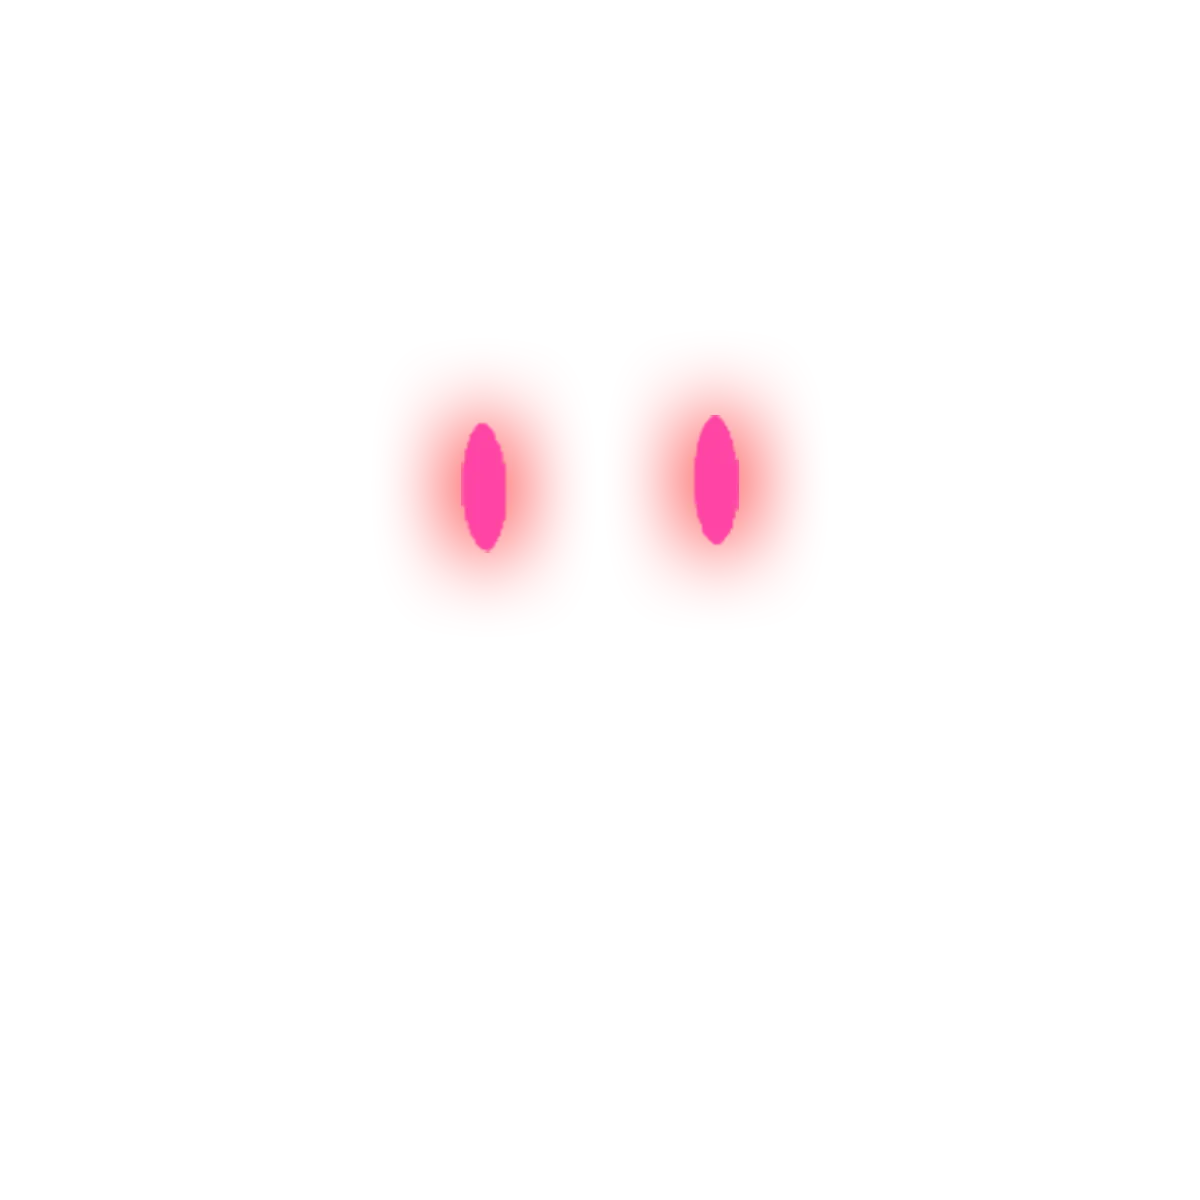
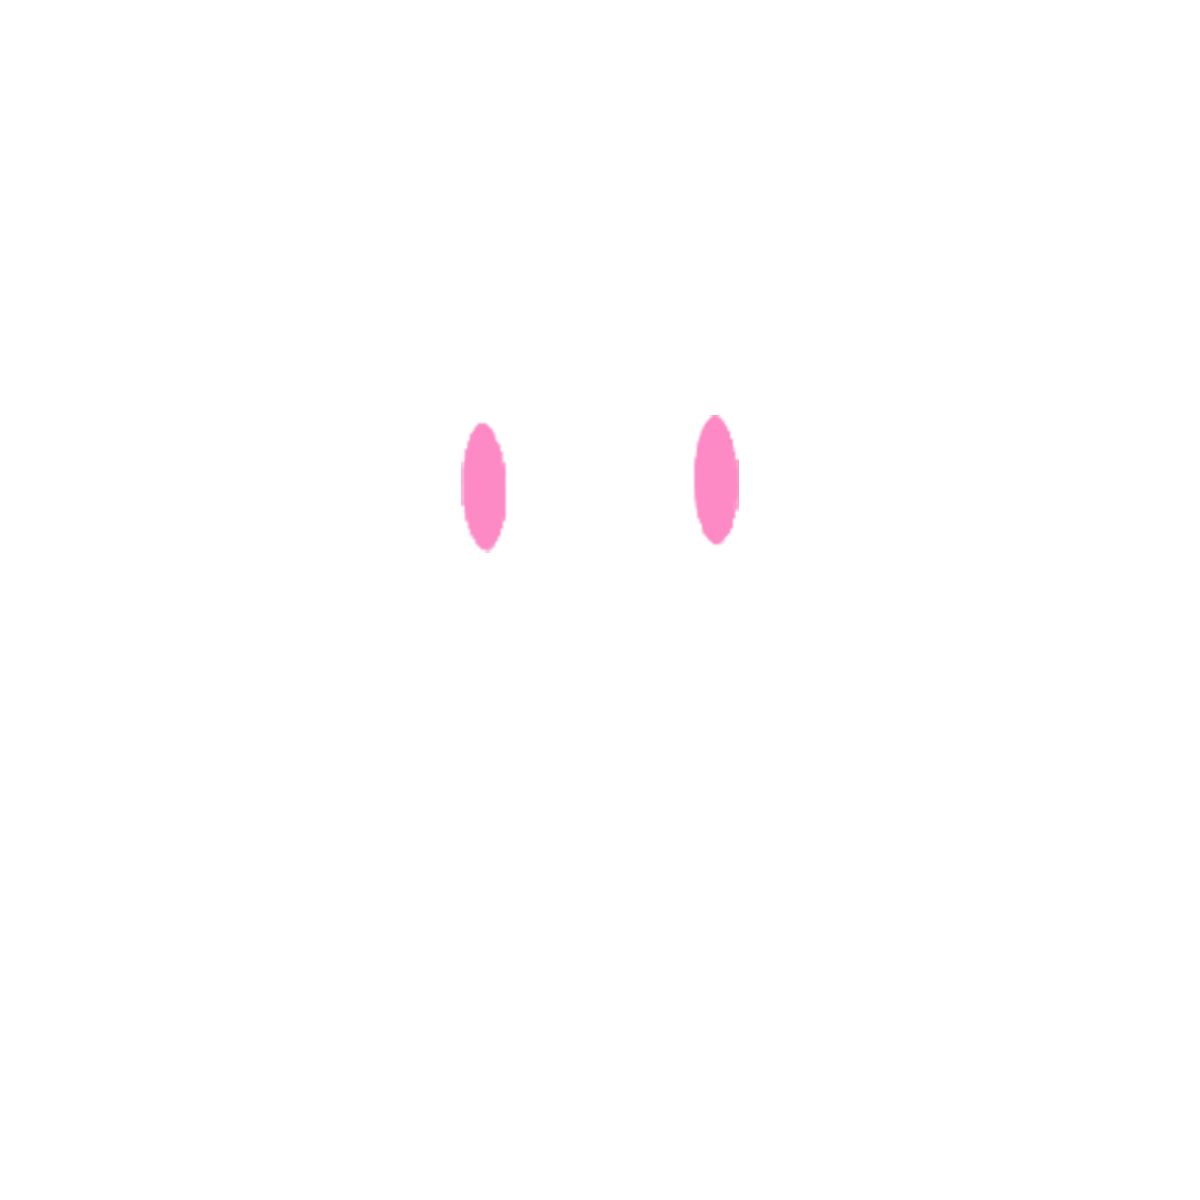
Improve eye animation

Changed region(s): [[0.5242, 0.3083, 0.6783, 0.4933], [0.3392, 0.3083, 0.4625, 0.4933]]

diff --git a/client/Haro.css b/client/Haro.css
@@ -4,7 +4,6 @@
   flex-grow: 1;
   text-align: center;
 }
-
 .haroBody {
   width: 100%;
   height: 60vh;
@@ -13,7 +12,6 @@
   background-repeat: no-repeat;
   background-position: center;
 }
-
 .haroEye {
   width: 100%;
   height: 100%;
@@ -24,20 +22,36 @@
   opacity: 0;
   transition: opacity 0.3s ease-in-out;
 }
-
+.haroEye::before {
+  content: "";
+  display: block;
+  width: 100%;
+  height: 100%;
+  background-image: url("/haro_eye_glow.webp");
+  background-size: contain;
+  background-repeat: no-repeat;
+  background-position: center;
+  opacity: 0;
+  transition: opacity 0.3s ease-in-out;
+  animation: activeBlink 2s infinite;
+}
 .haroEye.active {
   opacity: 1;
 }
-
-.haroEye.speaking {
-  animation: blink 2s infinite;
+.haroEye.active::before {
+  opacity: 1;
 }
-
+.haroEye.speaking {
+  opacity: 1;
+}
+.haroEye.speaking::before {
+  opacity: 1;
+  animation: speakingBlink 2s infinite;
+}
 .navigation {
   margin-top: 32px;
   margin-bottom: -32px;
 }
-
 .powerButton {
   height: 48px;
   width: 48px;
@@ -49,35 +63,42 @@
   cursor: pointer;
   transition: color 0.5s;
 }
-
 .powerButton:hover {
   color: #ffffff !important;
 }
-
 .powerButton.active {
   color: #a0df81;
 }
-
 .powerButton.inactive {
   color: #666666;
 }
 
-/* Blink eye animation randomly.*/
-@keyframes blink {
+@keyframes activeBlink {
+  0% {
+    opacity: 0.7;
+  }
+  30% {
+    opacity: 0.2;
+  }
+  100% {
+    opacity: 0.7;
+  }
+}
+@keyframes speakingBlink {
   0% {
     opacity: 1;
   }
   10% {
-    opacity: 0;
+    opacity: 0.4;
   }
   20% {
-    opacity: 1;
+    opacity: 0.8;
   }
   50% {
     opacity: 0;
   }
   70% {
-    opacity: 1;
+    opacity: 0.6;
   }
   90% {
     opacity: 0;

diff --git a/client/Haro.tsx b/client/Haro.tsx
@@ -122,13 +122,19 @@ function Haro() {
   // Trigger a message event randomly.
   useEffect(() => {
     const scheduleNext = () => {
-      const min = 15000; // 15 seconds
-      const max = 60000; // 60 seconds
+      const min = 5000; // 15 seconds
+      const max = 20000; // 60 seconds
       const delay = Math.floor(Math.random() * (max - min)) + min;
       const id = setTimeout(async () => {
         if (haroActive && !speaking) {
           const eventResponse = await getEvent();
-          const eventContent = `${eventResponse}\n【指示】今回は少し長目でも構いません。50文字以内で話してください。また、何があったのかも簡単に説明してください。`;
+          const eventContent = [
+            eventResponse,
+            " 【指示】これはハロの周りで起きたイベントのメッセージです。",
+            "最初に必ず何があったのか復唱し、ハロらしいリアクションをしてください。",
+            "例: 入力メッセージ「フラウがクッキーくれた！」→ 応答メッセージ「フラウがクッキーをくれたよ！わーい！とっても美味しそう！」",
+            "今回は少し長目の回答でも構いません。50文字以内で話してください。",
+          ].join("\n");
           console.log("Random message event triggered:", eventContent);
           sendMessage(eventContent);
         }
